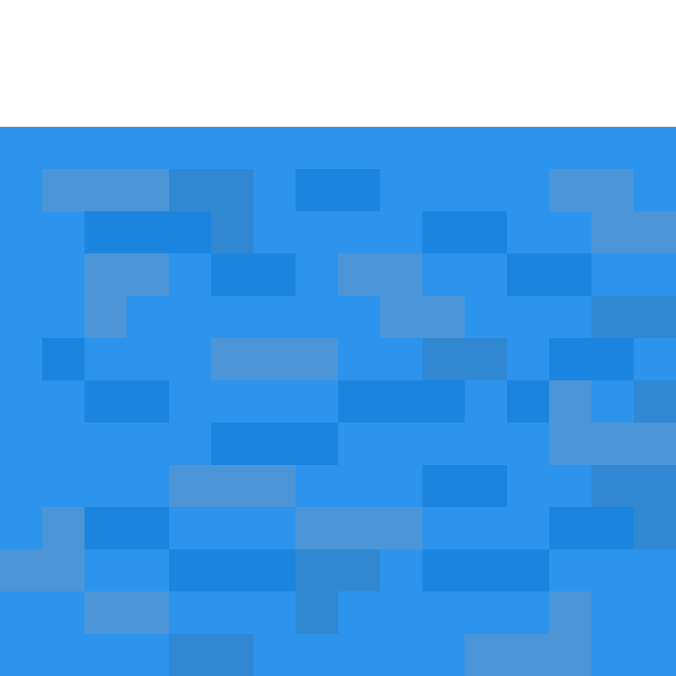
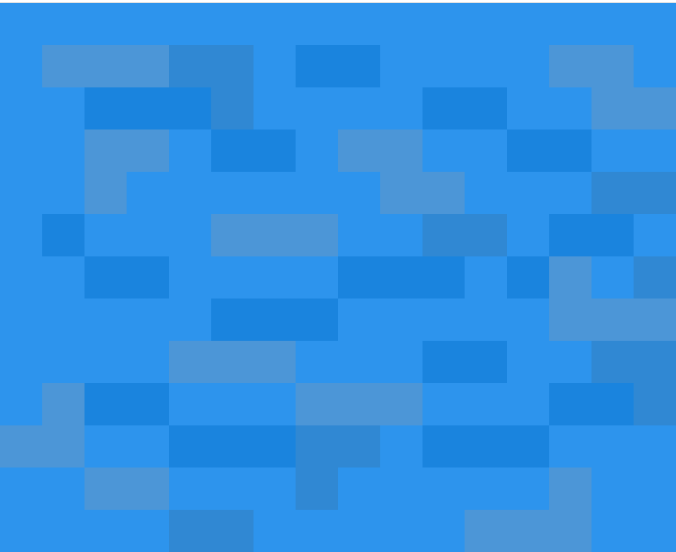
water bug fixed

diff --git a/dk_game/js/MainGame.js b/dk_game/js/MainGame.js
@@ -49,7 +49,7 @@ var MainGame = {
         this.load.image('platform10', 'assets/images/G10.png');
         this.load.image('platform11', 'assets/images/G11.png');
         this.load.image('platform12', 'assets/images/G12.png');
-        this.load.image('water', 'assets/images/Water.gif');
+        this.load.image('water', 'assets/images/Water_2.png');
 
         this.load.spritesheet('fire', 'assets/images/fire_spritesheet.png', 20, 21, 2, 1, 1);
         this.load.spritesheet('player', 'assets/images/player_spritesheet2.png', 62.6, 95, 6);
@@ -127,18 +127,18 @@ var MainGame = {
         this.player.customParams.isFacingLeft = false;
         this.player.customParams.isFacingRight = true;
         this.player.customParams.currentHammer = 0;
-        this.player.customParams.ropeCount=0;
-        this.player.customParams.sentHook=false;
-        this.player.customParams.needMove=false;
+        this.player.customParams.ropeCount = 0;
+        this.player.customParams.sentHook = false;
+        this.player.customParams.needMove = false;
 
         //set hook
-        this.hook=this.add.sprite(this.player.x,this.player.y,'hook');
-        this.hook.visible=false;
-        this.hook.anchor.setTo(0,1);
+        this.hook = this.add.sprite(this.player.x, this.player.y, 'hook');
+        this.hook.visible = false;
+        this.hook.anchor.setTo(0, 1);
         this.game.physics.arcade.enable(this.hook);
         this.hook.body.enable = false;
         this.hook.body.allowGravity = false;
-        this.hook.targetPositionY=0;
+        this.hook.targetPositionY = 0;
 
         //set hammer with animation
         //hammer's cout are three
@@ -148,7 +148,7 @@ var MainGame = {
         this.game.physics.arcade.enable(this.hammer1);
         this.hammer1.body.allowGravity = false;
         this.hammer1.frame = 1;
-        this.hammer1.scale.setTo(3,3);
+        this.hammer1.scale.setTo(3, 3);
 
         this.hammer2 = this.add.sprite(this.levelData.hammer2.x, this.levelData.hammer2.y, 'hammer');
         this.hammer2.animations.add('hammer');
@@ -156,7 +156,7 @@ var MainGame = {
         this.game.physics.arcade.enable(this.hammer2);
         this.hammer2.body.allowGravity = false;
         this.hammer2.frame = 1;
-        this.hammer2.scale.setTo(3,3);
+        this.hammer2.scale.setTo(3, 3);
 
         this.hammer3 = this.add.sprite(this.levelData.hammer3.x, this.levelData.hammer3.y, 'hammer');
         this.hammer3.animations.add('hammer');
@@ -164,15 +164,15 @@ var MainGame = {
         this.game.physics.arcade.enable(this.hammer3);
         this.hammer3.body.allowGravity = false;
         this.hammer3.frame = 1;
-        this.hammer3.scale.setTo(3,3);
+        this.hammer3.scale.setTo(3, 3);
 
         //set rope for player to pick
-        this.ropes=this.add.group();
+        this.ropes = this.add.group();
         this.ropes.enableBody = true;
 
         this.levelData.ropeData.forEach(function (element) {
             rope = this.ropes.create(element.x, element.y, 'rope');
-            rope.scale.setTo(0.5,0.5);
+            rope.scale.setTo(0.5, 0.5);
         }, this);
         this.ropes.setAll('body.allowGravity', false);
 
@@ -194,23 +194,22 @@ var MainGame = {
         this.barrelCreator = this.game.time.events.loop(Phaser.Timer.SECOND * this.levelData.barrelFrequency, this.createBarrel, this);
 
         // Water Creation
-        this.water = this.add.sprite(this.levelData.ground.x, this.levelData.ground.y + 50, 'water');
+        this.water = this.add.sprite(this.levelData.ground.x, this.levelData.ground.y + 200, 'water');
         this.water.scale.x = 1.5;
         this.water.alpha = 0.75;
         // this.water.scale.setTo(, );
-        this.game.physics.arcade.enable(this.water);
+        // this.game.physics.arcade.enable(this.water);
+        // this.water.body.allowGravity = false;
 
         var tween = this.add.tween(this.water);
 
         tween.to({
             y: this.levelData.ground.y - 10000
-        }, 1050000, Phaser.Easing.Exponential.Out, true, 0);
+        }, this.levelData.waterSpeed, Phaser.Easing.Exponential.Out, true, 0);
 
     },
 
     update: function () {
-        this.water.scale.y += 0.001;
-        // this.w
         //overlap detection with player and stair
         this.DetectStairOverlap();
         // always use collision detection in the update method to ensure it is checked all the time and not jsut once
@@ -226,7 +225,7 @@ var MainGame = {
         this.game.physics.arcade.collide(this.barrels, this.ground);
         this.game.physics.arcade.collide(this.barrels, this.platforms);
 
-        this.game.physics.arcade.collide(this.player, this.water, this.killPlayer);
+
 
         if (this.player.customParams.isHoldHammer) {
             //collision detection with hammer and barrel
@@ -250,10 +249,15 @@ var MainGame = {
         this.game.physics.arcade.overlap(this.player, this.fires, this.killPlayer);
         // collision detection with player and barrel
         this.game.physics.arcade.overlap(this.player, this.barrels, this.killPlayer);
+        // this.game.physics.arcade.overlap(this.player, this.water, this.killPlayer);
+        if (this.water.y - this.player.y < -30)
+        {
+            this.killPlayer();
+        }
 
         //collision detection with player and rope
         this.game.physics.arcade.overlap(this.player, this.ropes, this.PickRope);
-        this.game.debug.text("rope count: "+this.player.customParams.ropeCount,50,50);
+        this.game.debug.text("rope count: " + this.player.customParams.ropeCount, 50, 50);
 
         //collision detection with player and goal
         this.game.physics.arcade.overlap(this.player, this.goal, this.win);
@@ -294,39 +298,37 @@ var MainGame = {
         }
 
         //if player has rope and press SPACEBAR, sent the hook
-        if(game.input.keyboard.isDown(Phaser.Keyboard.SPACEBAR) && this.player.customParams.ropeCount>0){
-            this.player.sentHook=true;
+        if (game.input.keyboard.isDown(Phaser.Keyboard.SPACEBAR) && this.player.customParams.ropeCount > 0) {
+            this.player.sentHook = true;
             this.hook.body.enable = true;
             this.hook.body.allowGravity = false;
         }
         //if player release SPACEBAR, cancel sent hook
-        if(this.player.sentHook==true&&!game.input.keyboard.isDown(Phaser.Keyboard.SPACEBAR)){
-            this.hook.scale.setTo(1,1);
-            this.player.sentHook=false;
+        if (this.player.sentHook == true && !game.input.keyboard.isDown(Phaser.Keyboard.SPACEBAR)) {
+            this.hook.scale.setTo(1, 1);
+            this.player.sentHook = false;
             this.hook.body.enable = false;
-            this.hook.visible=false;
+            this.hook.visible = false;
         }
-        this.hook.position.setTo(this.player.x,this.player.y);
+        this.hook.position.setTo(this.player.x, this.player.y);
         //send the hook while player is pressing SPACEBAR
-        if(this.player.sentHook==true){
-            this.hook.visible=true;
-            this.hook.scale.setTo(1,this.hook.scale.y*1.08);
+        if (this.player.sentHook == true) {
+            this.hook.visible = true;
+            this.hook.scale.setTo(1, this.hook.scale.y * 1.08);
         }
         //if the hook reach platform, change player's position to there.
-        if(this.game.physics.arcade.overlap(this.hook, this.platforms, this.MovePlayer))
-        {
-            this.player.customParams.needMove=true;
-            this.hook.visible=false;
+        if (this.game.physics.arcade.overlap(this.hook, this.platforms, this.MovePlayer)) {
+            this.player.customParams.needMove = true;
+            this.hook.visible = false;
             this.hook.body.enable = false;
-            this.hook.scale.setTo(1,1);
-            this.player.sentHook=false;
+            this.hook.scale.setTo(1, 1);
+            this.player.sentHook = false;
             this.player.customParams.ropeCount--;
         }
-        if(this.player.customParams.needMove==true)
-        {
-            this.player.y-=20;
-            if(this.player.y<this.hook.targetPositionY-50){
-                this.player.customParams.needMove=false;
+        if (this.player.customParams.needMove == true) {
+            this.player.y -= 20;
+            if (this.player.y < this.hook.targetPositionY - 50) {
+                this.player.customParams.needMove = false;
             }
         }
 
@@ -436,8 +438,8 @@ var MainGame = {
         this.player.customParams.isOnStair = temp;
     },
 
-    MovePlayer:function(hook,platforms){
-        hook.targetPositionY=platforms.y;
+    MovePlayer: function (hook, platforms) {
+        hook.targetPositionY = platforms.y;
     },
 
     KillBarrel: function (hammer, barrels) {
@@ -464,7 +466,7 @@ var MainGame = {
         }, game);
     },
 
-    PickRope: function(player, rope){
+    PickRope: function (player, rope) {
         rope.kill();
         player.customParams.ropeCount++;
     },
@@ -503,9 +505,14 @@ var MainGame = {
         barrel.body.velocity.x = this.levelData.barrelSpeed;
     },
 
-    render: function () {
-        // game.debug.body(this.water);
-    }
+    // render: function () {
+    //     game.debug.body(this.water);
+    //     game.debug.body(this.player);
+    //     console.log(game.physics.arcade.distanceBetween(this.player, this.water));
+    //     console.log(this.player.y);
+    //     console.log(this.water.y);
+    //     console.log(this.water.y - this.player.y);
+    // }
 };
 
 //initiate the Phaser Framework
